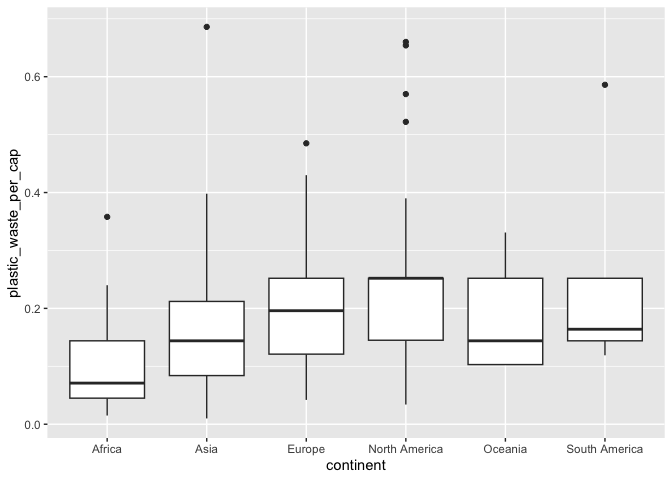
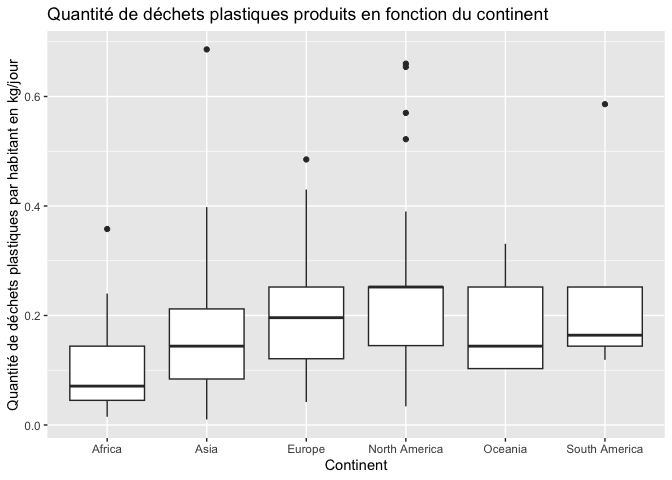
c4

diff --git a/lab-02.md b/lab-02.md
@@ -52,7 +52,7 @@ plastic_waste <- plastic_waste %>%
 ggplot(plastic_waste, aes(x = plastic_waste_per_cap)) +
   geom_histogram(binwidth = 0.4) +
   facet_grid(~continent) +
-  labs (title = "Distribution des quantité de déchets par habitant sur divers continents", x = "quantité de déchets plastiques par habitant en kg/jour")
+  labs (title = "Distribution des quantités de déchets par habitant sur divers continents", x = "Quantité de déchets plastiques par habitant en kg/jour", y = "Nombre de pays")
 ```
 
 ![](lab-02_files/figure-gfm/plastic-waste-continent-1.png)<!-- -->
@@ -69,7 +69,8 @@ déchets plastiques ?
 
 ``` r
 ggplot(plastic_waste, aes(x = plastic_waste_per_cap, fill = continent)) +
-  geom_density(alpha = 0.75, colour = NA)
+  geom_density(alpha = 0.75, colour = NA) +
+  labs (title = "Graphe illustrant la quantité de déchets produits selon le continent du pays", x = "Quantité de déchets plastiques par habitant en kg/jour", y = "Densité", fill = "Continents")
 ```
 
 ![](lab-02_files/figure-gfm/plastic-waste-density-1.png)<!-- -->
@@ -89,7 +90,8 @@ Boxplot:
 
 ``` r
 ggplot(plastic_waste, aes(x = continent, y = plastic_waste_per_cap)) +
-  geom_boxplot()
+  geom_boxplot() + 
+  labs(title = "Quantité de déchets plastiques produits en fonction du continent", x = "Continent", y = "Quantité de déchets plastiques par habitant en kg/jour")
 ```
 
 ![](lab-02_files/figure-gfm/plastic-waste-boxplot-1.png)<!-- -->
@@ -116,22 +118,46 @@ les boxplot ne permettent pas ?
 ### Exercise 4
 
 ``` r
-# insert code here
+ggplot(plastic_waste, aes(x = plastic_waste_per_cap, y = mismanaged_plastic_waste_per_cap, color = continent)) +
+  geom_point() +
+  labs(title = "Quantité de déchets non gérés en fonction des déchets produits par habitant", x = "Quantité de déchets plastiques par habitant en kg/jour", y = "Quantité de déchets plastiques non gérés par habitant en kg/jour", colour = "Continents")
 ```
 
-Réponse à la question…
+![](lab-02_files/figure-gfm/plastic-waste-mismanaged-1.png)<!-- -->
+
+Voyez-vous une tendance ?
+
+- Les pays d’Afrique et d’Asie, qui constituent généralement des pays
+  pauvres, sont ceux qui ont le plus de déchets non gérés, ainsi que
+  l’Océanie. Cependant, les pays d’Afrique ont tendance à polluer
+  beaucoup moins que les pays d’autres continents.
 
 ### Exercise 5
 
 ``` r
-# insert code here
+ggplot(plastic_waste, aes(y = plastic_waste_per_cap, x = total_pop)) +
+  geom_point() +
+  labs (title = "Quantité de déchets plastiques non gérés en fonction de la population totale", x = "Population totale selon Gapminder", y = "Quantité de déchets plastiques non gérés par habitant en kg/jour")
 ```
+
+    ## Warning: Removed 10 rows containing missing values or values outside the scale range
+    ## (`geom_point()`).
+
+![](lab-02_files/figure-gfm/plastic-waste-population-total-1.png)<!-- -->
 
 ``` r
-# insert code here
+ggplot(plastic_waste, aes(x = coastal_pop, y = plastic_waste_per_cap)) +
+  geom_point() +
+  labs(title = "Quantité de déchets plastiques non gérés en fonction de la population côtière", x = "Nombres de personnes vivant sur des côtes", y = "Quantité de déchets plastiques non gérés par habitant en kg/jour")
 ```
 
-Réponse à la question…
+![](lab-02_files/figure-gfm/plastic-waste-population-coastal-1.png)<!-- -->
+
+Est-ce qu’il semble y avoir une relation plus forte pour l’une des
+paires de variables ?
+
+- Il ne semble pas y avoir une différence significative entre la
+  relation du premier graphe et du second graphe.
 
 ## Conclusion
 
